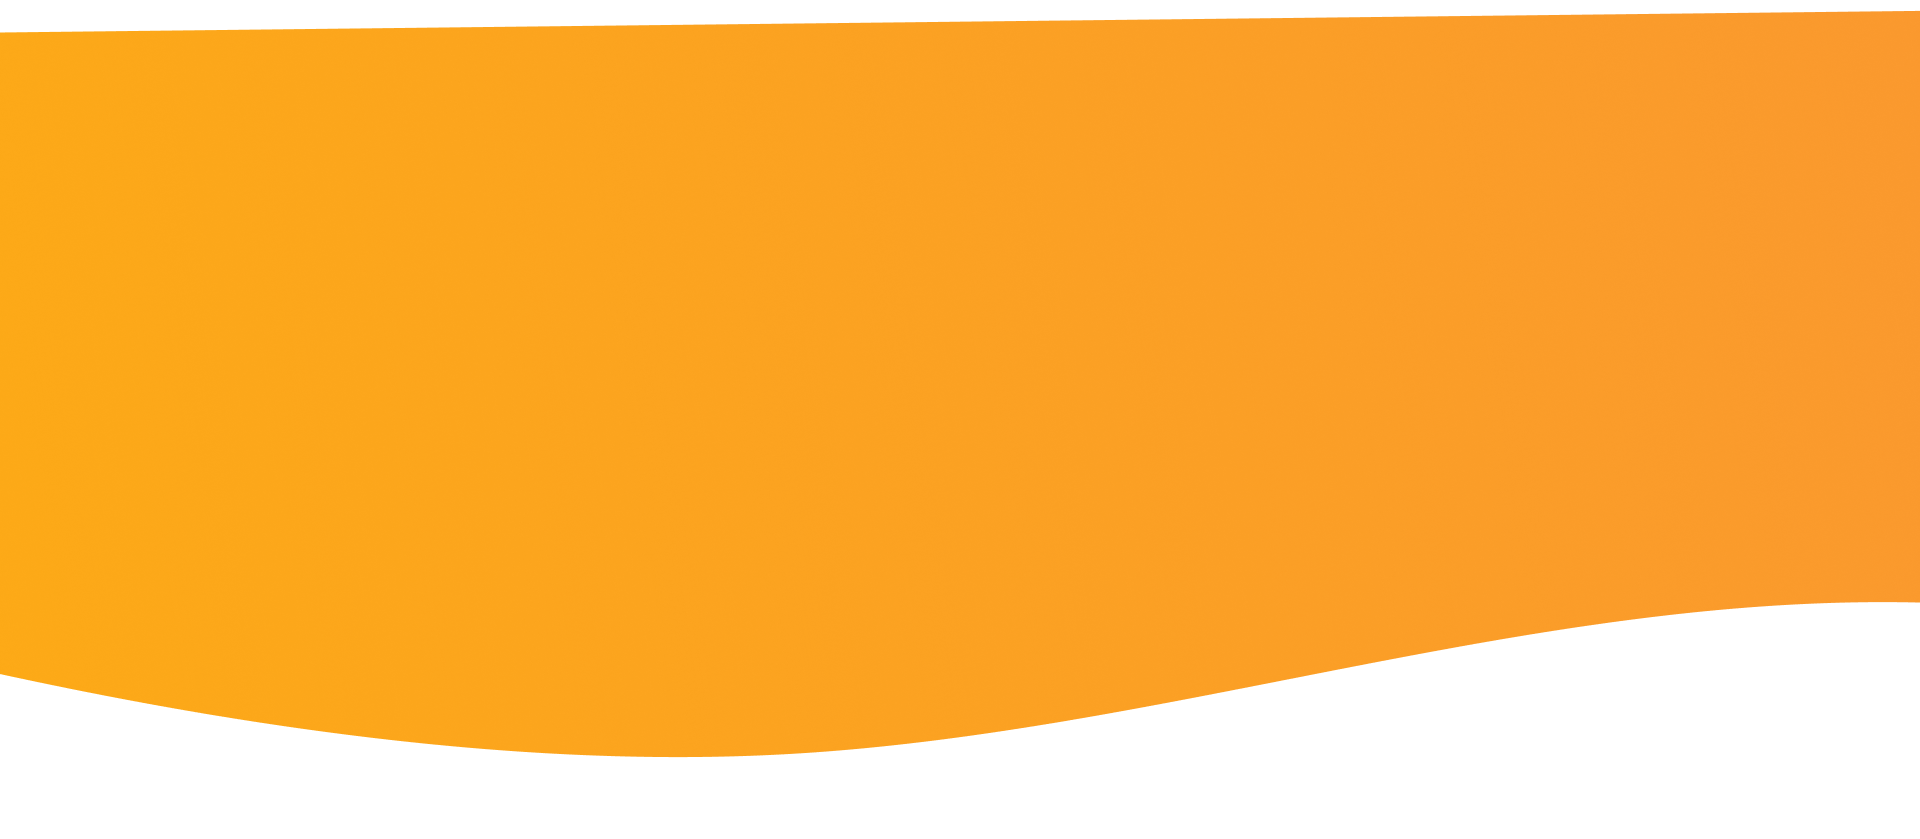
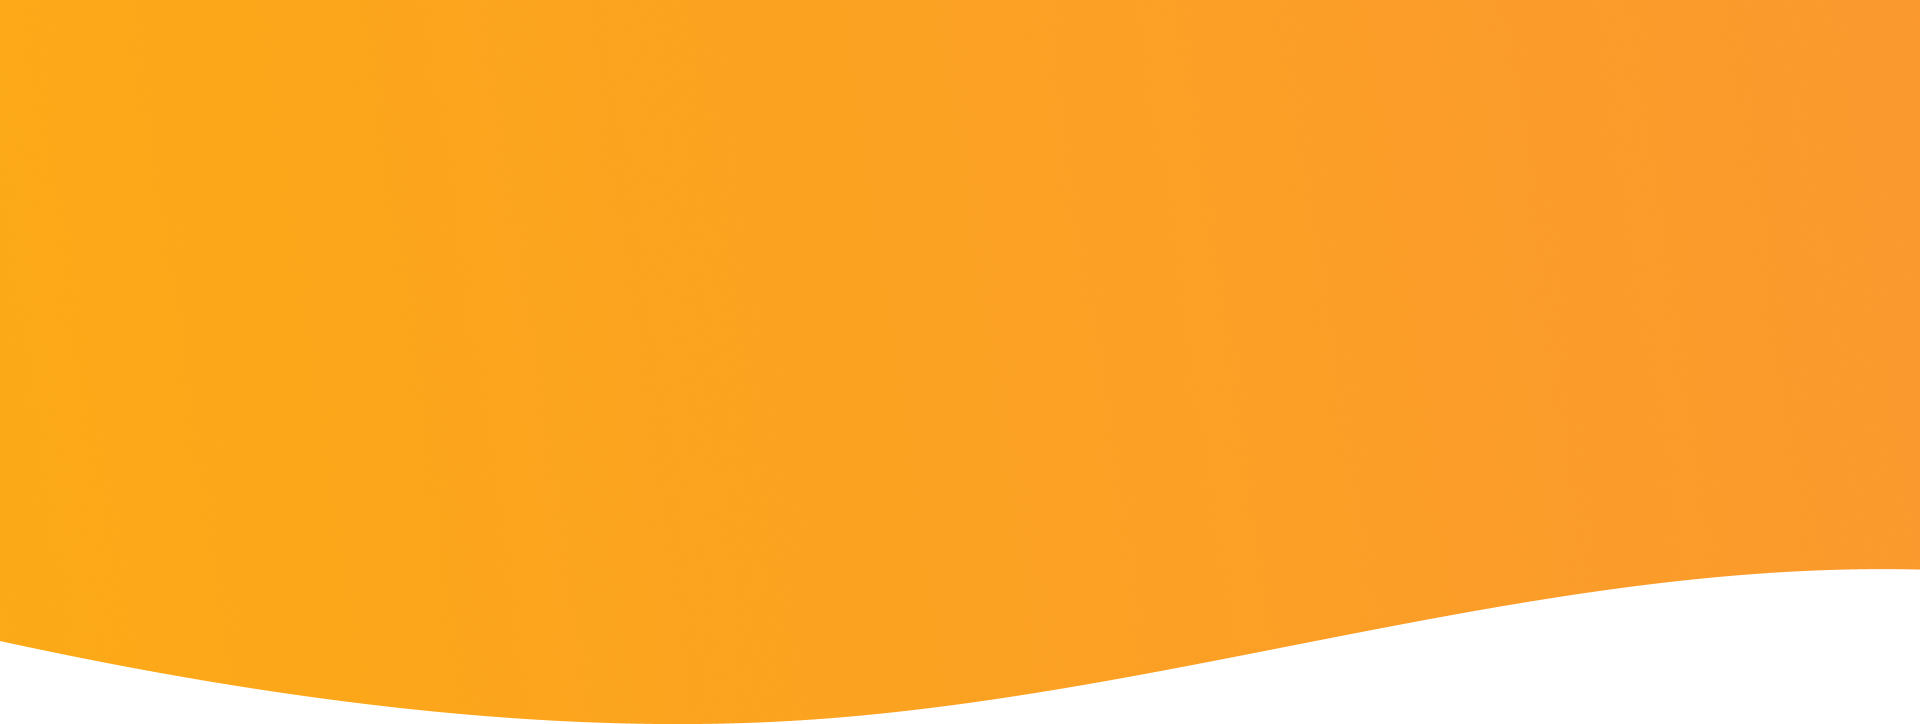
Spacing Update

Changed region(s): [[0.0, 0.6989, 1.0, 1.0], [0.0, 0.0, 1.0, 0.0608]]

diff --git a/client/src/app/page.js b/client/src/app/page.js
@@ -1,9 +1,14 @@
 // import components
+"use client";
 import Boba from './components/Boba';
 import Banner from './components/Banner';
 import Promo from './components/Promo'
-
 import SummerDrinks from './components/SummerDrinks';
+import AOS from 'aos';
+import 'aos/dist/aos.css';
+
+import { useEffect } from 'react';
+
 
 // pizza data
 const boba = [{
@@ -151,11 +156,18 @@ const boba = [{
 ];
 
 export default function Home() {
+    useEffect(()=> {
+        AOS.init({
+          duration: 100, 
+          delay: 0,
+        })
+      })
+      
     return (
     
     <section> 
         <Banner/>
-        <div className='container mx-auto flex flex-col'>
+        <div className='container mx-auto flex flex-col '>
             <h1 className='text-3xl lg:text-4xl font-poppins font-bold text-indigo text-center mt-16 lg:mt-0 lg:mb-12 pb-3 border-b-4 border-forange min-w-[300px] m-auto'>Featured Drinks</h1>
             <div className='grid grid-cols-2 gap-[15px] md::grid-cols-3 xl:grid-cols-4 xl:gap-[30px] py-12 '>
                 {boba.map((boba, index) => {

diff --git a/client/src/app/components/Banner.js b/client/src/app/components/Banner.js
@@ -7,8 +7,8 @@ import {
 
 const Banner = () => {
     return (
-    <section className="bg-pattern bg-no-repeat bg-cover lg:min-h-[768px]  pt-12 lg:pt-28 relative bottom-28">
-      <div className="container mx-auto lg:min-h-[788px] min-h-[620px]  flex items-center justfy-center relative top-20 lg:top-0 lg:bottom-12">
+    <section className="bg-pattern bg-no-repeat bg-cover lg:max-h-[750px] w-[100%]  pt-12 lg:pt-28 relative bottom-28" >
+      <div className="container mx-auto lg:min-h-[788px] min-h-[620px]  flex items-center justfy-center relative top-20 lg:top-0 lg:bottom-12" data-aos='fade-right' data-aos-delay='200' data-aos-duration='1200'>
         <MouseParallaxContainer globalFactorX={0.1} globalFactory={0.1} resetOnLeave className="w-full flex flex-col lg:flex-row justify-between items-center">
           <MouseParallaxChild factorX={0.1} factorY={0.1} >
             <div className="flex flex-col text-center gap-8 lg:text-left ">

diff --git a/client/src/app/components/Promo.js b/client/src/app/components/Promo.js
@@ -7,7 +7,7 @@ import Image from 'next/image';
 const Promo = () => {
   return (
   
-  <section  className=' relative bottom-26' id="features">
+  <section  className=' relative bottom-26' id="features" >
     <div className='container mx-auto'>
     <div className='flex flex-col items-center gap-x-10 lg:flex-row justify-end' >
       <div className='w-[80%] mb-8 lg:m-0 lg:max-w-[500px]'>
@@ -15,7 +15,7 @@ const Promo = () => {
       <Image src={'/promo-image.png'} width={760} height={760} alt='' priority={1}/>
       </div>
 
-    <div  className='sm:mt-12 mb-12' data-aos="fade-left" data-aos-delay="1000"data-aos-duration="1200">
+    <div  className='sm:mt-12 mb-12' data-aos="fade-left" data-aos-delay="500"data-aos-duration="1200">
 
       <div className='text-indigo flex gap-6 py-5 px-10 buissness-icon-container '>
         <div className='buissness-icon bg-blue/10 m-auto'>

diff --git a/client/src/app/components/SummerDrinks.js b/client/src/app/components/SummerDrinks.js
@@ -6,8 +6,8 @@ import {IoIosArrowDroprightCircle} from 'react-icons/io';
 const SummerDrinks = () => {
   return (
   
-  <section  className='section lg:mt-[-50px]' id="crypto">
-    <div className='container mx-auto'>
+  <section  className='section lg:mt-[-50px]' id="crypto" data-aos="fade-right" data-aos-delay="500"data-aos-duration="1200">
+    <div className='container mx-auto' >
     <div className='flex flex-col items-center gap-x-10 lg:flex-row' >
      <div className='lg:max-w-[700px]'>
             <h2 className='section-title'>Summer Drink Days Are Back!</h2>

diff --git a/client/src/app/components/Boba.js b/client/src/app/components/Boba.js
@@ -39,7 +39,7 @@ const Boba = ({boba}) => {
 
     
     
-    <div className="group py-2  px-4 xl:py-4 xl:-px-2 rounded-xl lg:relative bottom-16">
+    <div className="group py-2  px-4 xl:py-4 xl:-px-2 rounded-xl lg:relative bottom-14" data-aos="fade-up" data-aos-delay="500"data-aos-duration="1200">
        
         <Image onClick={openModal} className="lg:group-hover:-translate-y-5 transition-all duration-300 mb-8 cursor-pointer" 
         width={270} height={270} src={boba.image} alt='' priority={1} />

diff --git a/client/src/app/components/Nav.js b/client/src/app/components/Nav.js
@@ -12,7 +12,7 @@ const Nav = () => {
 
 
   return (
-  <nav className= 'w-full py-4 z-10 fixed  bg-forange'>
+  <nav className= 'w-full py-4 z-10 fixed  bg-forange' data-aos='fade-down' data-aos-delay='200' data-aos-duration='1000'>
       <div className="container mx-auto flex flex-col lg: lg:flex-row gap-y-3 justify-between items-center">
         <Link href="#">
           <Image src={'logo.svg'} width={180} height={180} alt='' ></Image>
